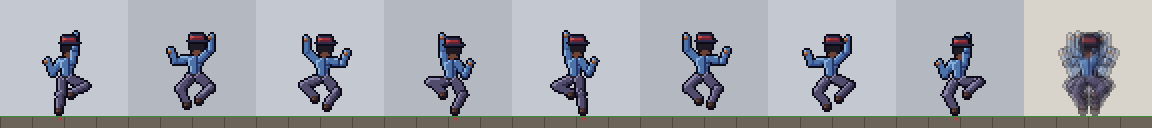
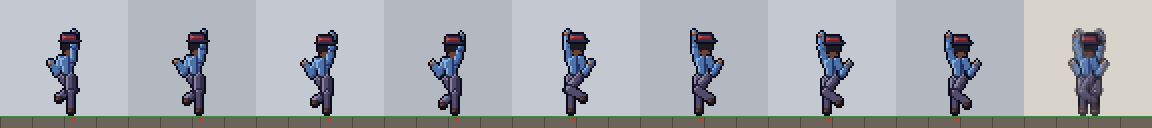
Polish: hand-over-hand climb, no glow on pale faces, ghost town gone, corner help
Climb: one hand high, one at the chest, opposite knee up. Alert glow dropped on
light skin; no 1 px hat lift. Town bands leave early on the road. Lapel flower
at 12 px; roof coins worth 5; plain 'Back again.' on a non-catch return. Corner
help for rising jumps (motion.cornerNudge, tested). jo-contrast logs drift and
settles the Evening's camera (unrun). See docs/redesign/round2/POLISH_REPORT.md.

diff --git a/src/data/rigs/jo.poses.js b/src/data/rigs/jo.poses.js
@@ -95,18 +95,19 @@ const JUMP_ANTICIPATE = [
   P({ hips: -4, lean: 2, fF: [2, 0, 'flat'], fB: [-2, 0, 'flat'], aF: [-45, 20], aB: [-35, 20], head: 'down' }),
 ];
 // bent elbows, not two sticks. The hat follows through: it stays down on the
-// way up, floats at the top, and lifts off his head on the way down
+// way up and over the top, then lifts off his head on the way down (2 px or
+// none: a 1 px lift reads as a speck of dirt over the crown)
 const RISE = [
   P({ hips: 1, lean: 1, fF: [2, 2, 'toe'], fB: [-3, 4, 'point'], aF: [115, 45], aB: [60, 50], handF: 'fist', head: 'up', trail: -1 }),
   P({ hips: 1, fF: [4, 6, 'point'], fB: [-2, 4, 'point'], aF: [125, 40], aB: [75, 45], handF: 'fist', head: 'up', trail: -1 }),
   P({ hips: 1, fF: [4, 7, 'point'], fB: [-2, 5, 'point'], aF: [120, 40], aB: [70, 45], handF: 'fist', head: 'up' }),
 ];
 const APEX = [
-  P({ hips: 1, fF: [5, 6, 'point'], fB: [-3, 6, 'point'], aF: [95, 40], aB: [65, 40], hat: { dy: -1 } }),
-  P({ hips: 1, fF: [5, 6, 'point'], fB: [-3, 6, 'point'], aF: [90, 45], aB: [60, 45], hat: { dy: -1 } }),
+  P({ hips: 1, fF: [5, 6, 'point'], fB: [-3, 6, 'point'], aF: [95, 40], aB: [65, 40] }),
+  P({ hips: 1, fF: [5, 6, 'point'], fB: [-3, 6, 'point'], aF: [90, 45], aB: [60, 45] }),
 ];
 const FALL = [
-  P({ hips: 1, fF: [3, 2, 'flat'], fB: [-3, 3, 'point'], aF: [120, 25], aB: [85, 40], head: 'down', hat: { dy: -1 }, trail: 1 }),
+  P({ hips: 1, fF: [3, 2, 'flat'], fB: [-3, 3, 'point'], aF: [120, 25], aB: [85, 40], head: 'down', hat: { dy: -2 }, trail: 1 }),
   P({ hips: 1, fF: [3, 1, 'flat'], fB: [-3, 2, 'point'], aF: [130, 20], aB: [95, 35], head: 'down', hat: { dy: -2 }, trail: 1 }),
   P({ hips: 1, fF: [3, 1, 'flat'], fB: [-3, 2, 'point'], aF: [125, 25], aB: [90, 40], head: 'down', hat: { dy: -2 }, trail: 1 }),
 ];
@@ -139,30 +140,34 @@ const CROUCH_WALK = withHeadLag(
   ].map((f, i) => P({ ...CROUCHED, ...f, aF: [30 + (i % 3) * 8, 50], aB: [36 - (i % 3) * 8, 50] }))
 );
 
-// ---- ladder: square-on and from behind (he faces the rungs). Hands and feet
-// alternate, one high, one low with the elbow out; hips sway +-1 ----------------
+// ---- ladder: square-on and from behind (he faces the rungs). Every frame one
+// hand is high on a rung and the other at the chest, and the knee opposite the
+// high hand is up, the other leg straight: never both fists up, both knees out
 const ON_LADDER = { torso: 'front', head: 'back', headDx: -1, flat: true, sF: [7, 1], sB: [1, 1], hipSep: 2, kneeB: -1, handF: 'fist', handB: 'fist' };
-// t: 0 the hand at the top of its reach ... 3 at its lowest
-const reach = (t, sign) => {
-  const [a, b] = [[172, 4], [135, 40], [80, 80], [35, 120]][t];
-  return [sign * a, sign * b];
-};
+// t: 0 just took the rung ... 3 pulled down to it as the body rises
+const HIGH = [[176, 2], [172, 6], [168, 10], [164, 14]];
+const CHEST = [[18, 130], [20, 128], [22, 126], [24, 124]];
+const CLIMB_KNEE = [6, 5, 4, 3]; // the raised foot, sinking as he stands on it
 const CLIMB = [0, 1, 2, 3, 4, 5, 6, 7].map((i) => {
   const up = i < 4; // the right hand is high on the first half
   const t = i % 4;
-  const hi = [8, 5, 2, 0][t];
   const hx = up ? 1 : -1;
+  const [hi, lo] = [HIGH[t], CHEST[t]];
+  const neg = ([a, b]) => [-a, -b];
   return P({
     ...ON_LADDER,
-    hips: [0, 1, 0, -1][t],
+    hips: [1, 1, 0, 0][t],
     hx,
-    fF: [3 - hx, up ? hi : 8 - hi, 'front'],
-    fB: [-3 - hx, up ? 8 - hi : hi, 'front'],
-    aF: reach(up ? t : 3 - t, 1),
-    aB: reach(up ? 3 - t : t, -1),
+    // the raised knee comes in toward the ladder's middle, never out sideways
+    fF: [3 - hx, up ? 0 : CLIMB_KNEE[t], 'front'],
+    fB: [-3 - hx, up ? CLIMB_KNEE[t] : 0, 'front'],
+    kneeF: up ? 1 : -1,
+    kneeB: up ? 1 : -1,
+    aF: up ? hi : lo,
+    aB: neg(up ? lo : hi),
   });
 });
-const CLIMB_IDLE = [P({ ...ON_LADDER, fF: [3, 4, 'front'], fB: [-3, 0, 'front'], aF: reach(0, 1), aB: reach(2, -1) })];
+const CLIMB_IDLE = [P({ ...ON_LADDER, fF: [3, 0, 'front'], fB: [-3, 4, 'front'], kneeB: 1, aF: HIGH[1], aB: [-CHEST[1][0], -CHEST[1][1]] })];
 
 // ---- walls -----------------------------------------------------------------
 const WALL_SLIDE = [

diff --git a/tests/feel.test.js b/tests/feel.test.js
@@ -4,7 +4,7 @@
 // loop at 30/60/144 Hz, and against the old per-frame controller at 60 Hz:
 // 60 Hz must stay what the levels were built on.
 import { describe, it, expect, afterEach } from 'vitest';
-import { GRAVITY, SPEED, JUMP, JUMP_CUT_BELOW, TERMINAL_FALL, perFrame, cutSpeed, landImpact, isLanding } from '../src/entities/motion.js';
+import { GRAVITY, SPEED, JUMP, JUMP_CUT_BELOW, TERMINAL_FALL, perFrame, cutSpeed, landImpact, isLanding, cornerNudge, CORNER_MAX, CORNER_RISE } from '../src/entities/motion.js';
 import { REACH } from '../src/world/reach.js';
 import { easeFollow, shakeScale } from '../src/world/CameraDirector.js';
 import { InputMap, attachInput } from '../src/input/InputMap.js';
@@ -304,5 +304,38 @@ describe('InputMap', () => {
     key('keyup', 'KeyA');
     map.poll();
     expect(map.isDown('left')).toBe(false);
+  });
+});
+
+describe('corner help (motion.cornerNudge)', () => {
+  // Jo's 24 x 44 body, top flush under a ceiling tile at col 3 row 2 (y 64..96)
+  const box = (left) => ({ left, right: left + 24, top: 96, bottom: 140 });
+  const tiles = (solid, hazard = []) => {
+    const has = (l) => (c, r) => l.some(([x, y]) => x === c && y === r);
+    return { solidAt: has(solid), hazardAt: has(hazard) };
+  };
+  const CEIL = [[3, 2]]; // spans x 96..128
+  const rising = -400;
+
+  it('clips of 1 and 4 px slide past, on the near side', () => {
+    expect(cornerNudge(box(127), rising, tiles(CEIL))).toBe(1); // his left edge 1 px under it
+    expect(cornerNudge(box(124), rising, tiles(CEIL))).toBe(4);
+    expect(cornerNudge(box(73), rising, tiles(CEIL))).toBe(-1); // his right edge
+    expect(cornerNudge(box(76), rising, tiles(CEIL))).toBe(-4);
+  });
+  it('a clip of 6 px is a ceiling, and so is a run of tiles', () => {
+    expect(cornerNudge(box(122), rising, tiles(CEIL))).toBe(0);
+    expect(cornerNudge(box(100), rising, tiles([[3, 2], [4, 2]]))).toBe(0);
+  });
+  it('never nudges into a hazard or a solid tile', () => {
+    expect(cornerNudge(box(127), rising, tiles(CEIL, [[4, 3]]))).toBe(0); // a spike where he would go
+    expect(cornerNudge(box(127), rising, tiles([[3, 2], [4, 3]]))).toBe(0); // a wall there
+    expect(cornerNudge(box(127), rising, tiles(CEIL, [[9, 9]]))).toBe(1); // a spike elsewhere changes nothing
+  });
+  it('only when he was rising, and only for a tile', () => {
+    expect(cornerNudge(box(127), -CORNER_RISE + 1, tiles(CEIL))).toBe(0);
+    expect(cornerNudge(box(127), 200, tiles(CEIL))).toBe(0);
+    expect(cornerNudge(box(127), rising, tiles([]))).toBe(0); // a body, not a tile
+    expect(CORNER_MAX).toBe(4);
   });
 });

diff --git a/src/entities/Player.js b/src/entities/Player.js
@@ -4,7 +4,8 @@ import { AnimationController } from '../art/AnimationController.js';
 import { characterManifest, bakeFromAtlas } from '../art/baked.js';
 import { sfx } from '../systems/audio.js';
 import { solveGround } from './ground.js';
-import { SPEED, JUMP, JUMP_CUT_BELOW, TERMINAL_FALL, perFrame, cutSpeed, landImpact, isLanding } from './motion.js';
+import { SPEED, JUMP, JUMP_CUT_BELOW, TERMINAL_FALL, perFrame, cutSpeed, landImpact, isLanding, cornerNudge } from './motion.js';
+import { roleOf } from '../builders/legend.js';
 import PlayerShadow from './PlayerShadow.js';
 import { showTutorial } from '../play/Teach.js';
 import { JO_DUST } from './jo.js';
@@ -219,6 +220,7 @@ export default class Player extends Phaser.Physics.Arcade.Sprite {
   }
 
   syncAttachments() {
+    this.prevVy = this.body.velocity.y; // Arcade zeroes it on a ceiling: tryCorner reads this
     const { x: sx, y: sy } = this.visualScale();
     const f = this.feet();
     if (!this.hasAtlas) return this.syncLegacy(sx, sy);
@@ -513,6 +515,19 @@ export default class Player extends Phaser.Physics.Arcade.Sprite {
     return this.inputMap ? this.inputMap.isDown('down') : this.cursors.down.isDown || this.keys.S.isDown;
   }
 
+  // a rising Jo who clipped a tile's corner carries on past it (motion.js).
+  // Not on a frame without a step: its flags are stale. (wasTouching: at 30 Hz
+  // a second step has already cleared `blocked`.)
+  tryCorner(body) {
+    const built = this.scene.built;
+    if (!built || !built.solidAt || !this.scene.physics.world.stepsLastFrame) return;
+    if (!body.blocked.up && !body.wasTouching.up) return;
+    const dx = cornerNudge(body, this.prevVy, { solidAt: built.solidAt, hazardAt: (c, r) => roleOf(built.charAt(c, r)) === 'hazard' }, T);
+    if (!dx) return;
+    this.x += dx;
+    body.setVelocityY(this.prevVy);
+  }
+
   update(time, delta) {
     const body = this.body;
     const dt = Math.min(delta, 50);
@@ -711,6 +726,8 @@ export default class Player extends Phaser.Physics.Arcade.Sprite {
       this.fallSpeed = body.velocity.y;
     }
     if (jumpJust && !locked) this.lastJumpPressed = time;
+    // (before the jump cut below: a ceiling's zero would shut its window)
+    if (!grounded && !locked && !this.floating && body.allowGravity && body.moves) this.tryCorner(body);
 
     // horizontal
     if (!locked) {

diff --git a/src/systems/horizon.js b/src/systems/horizon.js
@@ -607,7 +607,9 @@ export default class Horizon {
     // the road crossfade: only ever up on the viaduct, never in the wrap
     const target = onRoad ? Phaser.Math.Clamp((player.x - 396 * T) / ((470 - 396) * T), 0, 1) : 0;
     this.roadMix += (target - this.roadMix) * Math.min(1, dt * 1.5);
-    const town = 1 - this.roadMix;
+    // the town is gone a tenth of the way up the road, the road's land solid
+    // by halfway: both see-through at once read as a ghost row of houses
+    const town = Phaser.Math.Clamp(1 - this.roadMix / 0.15, 0, 1);
 
     for (const [name, b] of Object.entries(this.bands)) {
       if (name === 'road') {
@@ -620,11 +622,11 @@ export default class Horizon {
       const haze = name === 'sea' ? 0.35 : name === 'mtn' || name === 'mtnSnow' ? 0.5 : name === 'town' ? 0.25 : name === 'road' ? 0.2 : name === 'under' ? 0.15 : 0.16;
       b.ts.setTint(lerpC(ambient, horizonColour, haze));
     }
-    this.bands.sea.ts.setAlpha(town * (1 - rain * 0.3));
+    this.bands.sea.ts.setAlpha((1 - this.roadMix) * (1 - rain * 0.3)); // behind the range and the road: no houses to ghost
     this.bands.town.ts.setAlpha(town);
     this.bands.near.ts.setAlpha(town);
     this.bands.under.ts.setAlpha(town);
-    this.bands.road.ts.setAlpha(this.roadMix);
+    this.bands.road.ts.setAlpha(Phaser.Math.Clamp(this.roadMix / 0.5, 0, 1));
     // the mountains take the snow half a minute before the town does
     this.snowCap += ((snow > 0 ? 1 : 0) - this.snowCap) * Math.min(1, dt / (snow > 0 ? 25 : 40));
     this.bands.mtnSnow.ts.setAlpha(this.snowCap);

diff --git a/src/art/rig/cast.js b/src/art/rig/cast.js
@@ -36,6 +36,10 @@ export function tones(c) {
   return [mix(c, LIGHT, 0.3), c, mix(mix(c, 0x000000, 0.22), COOL, 0.28), mix(mix(c, 0x000000, 0.48), COOL, 0.3)];
 }
 
+// the alert eye's glow: a dim red beside the 2x2 eye, for a dark face in the
+// dark. On light skin it reads as blood or blush, so there it is just skin.
+const alertGlow = (skin) => (lum(skin) >= 0.5 ? skin : 0x8a2a2a);
+
 // ---- bodies ----------------------------------------------------------------------
 // Torsos face right: a coat (base colour) with a lighter placket/collar (the
 // look's trim), a belt and the trouser top. Anchor = the hip point.
@@ -244,7 +248,7 @@ export function castRig(look, spec = {}) {
   const [N, a] = tones(hairC);
   const [Z, Ab, x] = tones(A);
   const palette = {
-    Y: 0x8a2a2a,
+    Y: alertGlow(Ss),
     k: 0x1a1828,
     I, J, j, q, W: mix(W, Wl, 0.3), w, v, Q, P: Pp, p, o, R, S: Ss, s, t, C, B: Bb, b, d, U, H: Hh, h, g, y, r, n,
     a, N, Z, A: Ab, x, F: 0x6a4a32, f: 0x4a3222,
@@ -350,6 +354,7 @@ function dress(rig, key) {
   const c = costumeFor(key, rig.body);
   if (!c) return;
   if (c.pal) Object.assign(rig.palette, c.pal);
+  rig.palette.Y = alertGlow(rig.palette.S);
   if (c.hat && HATS[c.hat]) rig.parts.hat = HATS[c.hat];
   rig.parts.head = headSet(faceRows(HAIR[c.hair || rig.headSpec.hair] || HAIR.short, c.face), rig.headSpec.beard);
   rig.parts.over = [].concat(rig.parts.over || [], costumeLayers(c.over, rig.torsoRows));

diff --git a/src/dev/identityProbe.js b/src/dev/identityProbe.js
@@ -34,6 +34,7 @@ export async function joContrast(dc, sc) {
   const grain = sc.look && sc.look.grain;
   const grainWas = grain ? grain.visible : false;
   if (grain) grain.setVisible(false);
+  const cam0 = [cam.scrollX, cam.scrollY, cam.zoom];
   const A = await pixels(dc);
   const alphaWas = p.alpha;
   p.setAlpha(0);
@@ -50,6 +51,8 @@ export async function joContrast(dc, sc) {
   parts.forEach((o) => o.setTintFill(0xff00ff).setAlpha(1));
   p.probeMask = true;
   const M = await pixels(dc);
+  // the mask is only Jo if the camera held still across the snapshots
+  const drift = +Math.max(Math.abs(cam.scrollX - cam0[0]), Math.abs(cam.scrollY - cam0[1]), Math.abs(cam.zoom - cam0[2]) * 500).toFixed(2);
   p.probeMask = false;
   for (const w of was) {
     if (w.fill) w.o.setTintFill(w.tint);
@@ -119,5 +122,5 @@ export async function joContrast(dc, sc) {
   edge.sort((a, b) => a - b);
   local.sort((a, b) => a - b);
   const pct = (q, arr = edge) => (arr.length ? +arr[Math.floor((arr.length - 1) * q)].toFixed(2) : 0);
-  return { ratio: +ratio.toFixed(2), edgeMedian: pct(0.5), edgeP75: pct(0.75), localMedian: pct(0.5, local), jo: +lj.toFixed(3), bg: +lb.toFixed(3), joPx: joN, edgePx: edge.length };
+  return { ratio: +ratio.toFixed(2), edgeMedian: pct(0.5), edgeP75: pct(0.75), localMedian: pct(0.5, local), jo: +lj.toFixed(3), bg: +lb.toFixed(3), joPx: joN, edgePx: edge.length, drift, box: [x0, y0, x1, y1] };
 }

diff --git a/src/scenes/HubScene.js b/src/scenes/HubScene.js
@@ -701,6 +701,7 @@ export default class HubScene extends BaseLevel {
     // the dream Jo has just come back from is woven in on his return
     if (this.returnedFrom && caught[this.returnedFrom]) {
       this.weaveNext = this.returnedFrom;
+      this.returnCaught = true; // (weaveNext is spent by the time he reaches the desk)
       delete caught[this.returnedFrom];
     }
     this.webRounds = caughtRounds(caught);
@@ -1028,7 +1029,7 @@ export default class HubScene extends BaseLevel {
     this.leadCoins = [];
     const lay = (key, c, y) => {
       if (leads[key] || !this.coinMgr) return;
-      const coin = this.coinMgr.spawn(px(c), y);
+      const coin = this.coinMgr.spawn(px(c), y, { n: 5 }); // worth going up for: 15 of them, $75
       coin.leadKey = key;
       this.leadCoins.push(coin);
     };
@@ -1255,7 +1256,7 @@ export default class HubScene extends BaseLevel {
       this.visitLines.deskReturn = true;
       // the first dream caught by someone who has already seen the far side
       if (this.N === 1 && this.save.evening.early) return this.say('pemberton', "You've been through the gate. The board noticed. Back for the rest?");
-      return this.say('pemberton', this.N ? pembertonLine(this.N) : 'Back again.');
+      return this.say('pemberton', this.returnCaught ? pembertonLine(this.N) : 'Back again.');
     }
     const hub = this.save.flags.hub;
     const tellOnce = (key, text) => {

diff --git a/src/entities/motion.js b/src/entities/motion.js
@@ -48,3 +48,29 @@ export function landImpact(drop, gravity = GRAVITY) {
 // Was that a landing at all? A seam between bodies or a step down is a frame
 // or two of air; touching down at the top of a hop is a long time in the air.
 export const isLanding = (drop, airMs) => drop >= 12 || airMs >= 150;
+
+// Corner help (feel review r1). A rising Jo who clips a ceiling tile's corner
+// slides past it instead of stopping dead. Pure: `box` is his body now (top
+// flush with what stopped him), `tiles` { solidAt, hazardAt } by tile. Returns
+// the x nudge, 0 for a real ceiling, a soft rise, or a blocker that is no tile.
+export const CORNER_MAX = 4;
+export const CORNER_RISE = 100;
+export function cornerNudge(box, prevVy, tiles, T = 32) {
+  if (!(prevVy <= -CORNER_RISE)) return 0; // (undefined: his first frame)
+  const hits = (dx, test) => {
+    const c1 = Math.floor((box.right + dx - 0.01) / T);
+    const r1 = Math.floor((box.bottom - 0.01) / T);
+    for (let c = Math.floor((box.left + dx) / T); c <= c1; c++) {
+      // (1 px up: the row that stopped him)
+      for (let r = Math.floor((box.top - 1) / T); r <= r1; r++) if (test(c, r)) return true;
+    }
+    return false;
+  };
+  if (!hits(0, tiles.solidAt)) return 0;
+  for (let n = 1; n <= CORNER_MAX; n++) {
+    for (const dx of [-n, n]) {
+      if (!hits(dx, tiles.solidAt) && !hits(dx, tiles.hazardAt)) return dx;
+    }
+  }
+  return 0;
+}

diff --git a/src/dev/scenarios/wp6.js b/src/dev/scenarios/wp6.js
@@ -68,7 +68,9 @@ const joContrastSc = {
     const rows = [];
     for (const [dream, place] of PLACES_TO_SAMPLE) {
       const sc = await arrive(dc, dream, place);
-      dc.step(20);
+      // the Evening's camera eases (zoom 1.4 s, follow lerp 0.08): under way, the
+      // mask misses Jo's outline and `local` reads about 1 (characters review r1)
+      dc.step(dream === 'evening' ? 240 : 20);
       const r = await joContrast(dc, sc);
       const L = sc.player.light ? sc.player.light.state() : {};
       rows.push({ place: dream, ...r, lamp: L.kind && L.raised > 0.5 ? L.kind : 'none' });
@@ -81,7 +83,7 @@ const joContrastSc = {
     // a light in dark rooms (src/entities/JoLight.js): the 3:1 is met by
     // that light where it is dark and by his costume where it is lit
     const enforce = true;
-    const detail = rows.map((r) => `${r.place} [${r.lamp}] edge ${r.edgeMedian} local ${r.localMedian} (jo ${r.jo} bg ${r.bg})`).join('; ');
+    const detail = rows.map((r) => `${r.place} [${r.lamp}] edge ${r.edgeMedian} local ${r.localMedian} (jo ${r.jo} bg ${r.bg} drift ${r.drift} box ${r.box})`).join('; ');
     return { pass: !enforce || fails.length === 0, detail: `${litUnder.length ? `lit rooms under ${JO_CONTRAST_MIN}:1 (costume only): ${litUnder.map((r) => r.place).join(', ')}. ` : ''}${detail}` };
   },
 };

diff --git a/src/art/bayProps.js b/src/art/bayProps.js
@@ -173,11 +173,18 @@ export function bayPropTex(scene, kind) {
 
 // Jo's lapel: a flower from the seller, worn in the station and at the last stop
 export function lapelFlower(scene, p, depth) {
-  const key = paintTexture(scene, 'jo-lapel', 9, 9, (ctx) => {
+  // 12 px, a stem and a dark rim: smaller was lost against the coat and the lamps
+  const key = paintTexture(scene, 'jo-lapel', 12, 12, (ctx) => {
+    const petals = [[4, 1], [1, 4], [7, 4], [4, 6]]; // each 3 x 3
+    ctx.fillStyle = hex(0x1a1420);
+    for (const [x, y] of petals) ctx.fillRect(x - 1, y - 1, 5, 5);
+    ctx.fillRect(4, 9, 3, 3); // round the stem
+    ctx.fillStyle = hex(0x4a8a4a);
+    ctx.fillRect(5, 9, 1, 3);
     ctx.fillStyle = hex(0xe86a7a);
-    for (const [x, y] of [[4, 1], [1, 4], [7, 4], [4, 7]]) ctx.fillRect(x - 1, y - 1, 3, 3);
+    for (const [x, y] of petals) ctx.fillRect(x, y, 3, 3);
     ctx.fillStyle = hex(0xf2d580);
-    ctx.fillRect(3, 3, 3, 3);
+    ctx.fillRect(4, 4, 3, 2);
   });
   const img = scene.add.image(p.x, p.y, key).setDepth(depth);
   return () => img.setPosition(p.art.x + (p.flipX ? -5 : 5), p.art.y - 50).setVisible(p.shown && !p.climbing);

diff --git a/src/scenes/EveningScene.js b/src/scenes/EveningScene.js
@@ -1238,15 +1238,15 @@ export default class EveningScene extends BaseLevel {
   postbox() {
     // money's ending: what he carried here means nothing unless it goes
     // somewhere. All of it, on a second press: the stall will miss it.
-    const line = (text) => {
-      const t = uiText(this, this.player.x, this.player.y - 60, text, { fontSize: '12px', color: '#c8c0b0' }).setOrigin(0.5).setDepth(90);
+    const line = (text, lift = 0) => {
+      const t = uiText(this, this.player.x, this.player.y - 60 - lift, text, { fontSize: '12px', color: '#c8c0b0' }).setOrigin(0.5).setDepth(90);
       this.tweens.add({ targets: t, y: t.y - 20, alpha: 0, duration: 2600, onComplete: () => t.destroy() });
     };
     const w = getWallet().total;
     if (w <= 0) return line('(nothing to post.)');
     if (this.time.now > this.postArmedUntil) {
       this.postArmedUntil = this.time.now + 3000;
-      return line(`($${w}. all of it? [E])`);
+      return line(`($${w}. all of it? [E])`, 14); // clear of the postbox's own label
     }
     this.postArmedUntil = 0;
     spend(w);

diff --git a/src/dev/scenarios/scale.js b/src/dev/scenarios/scale.js
@@ -94,7 +94,7 @@ export function measureScale(sc) {
     const h = Math.round(opaqueH(o) * Math.abs(o.scaleY));
     const at = { key, x: Math.round(o.x), y: Math.round(o.y), h };
     if (isPerson) {
-      if (seated.has(key) || /\/hat$/.test((o.frame && o.frame.name) || '') || /-(sit|sitlaugh)$|-throw|-windup|-grab/.test(key) || Math.abs(o.angle) > 12 || (o.frame && /sit|sleep|death|float/.test(o.frame.name))) {
+      if (seated.has(key) || /^hub-sleeper/.test(key) || /\/hat$/.test((o.frame && o.frame.name) || '') || /-(sit|sitlaugh)$|-throw|-windup|-grab/.test(key) || Math.abs(o.angle) > 12 || (o.frame && /sit|sleep|death|float/.test(o.frame.name))) {
         skipped.push({ ...at, why: 'pose' });
         continue;
       }
